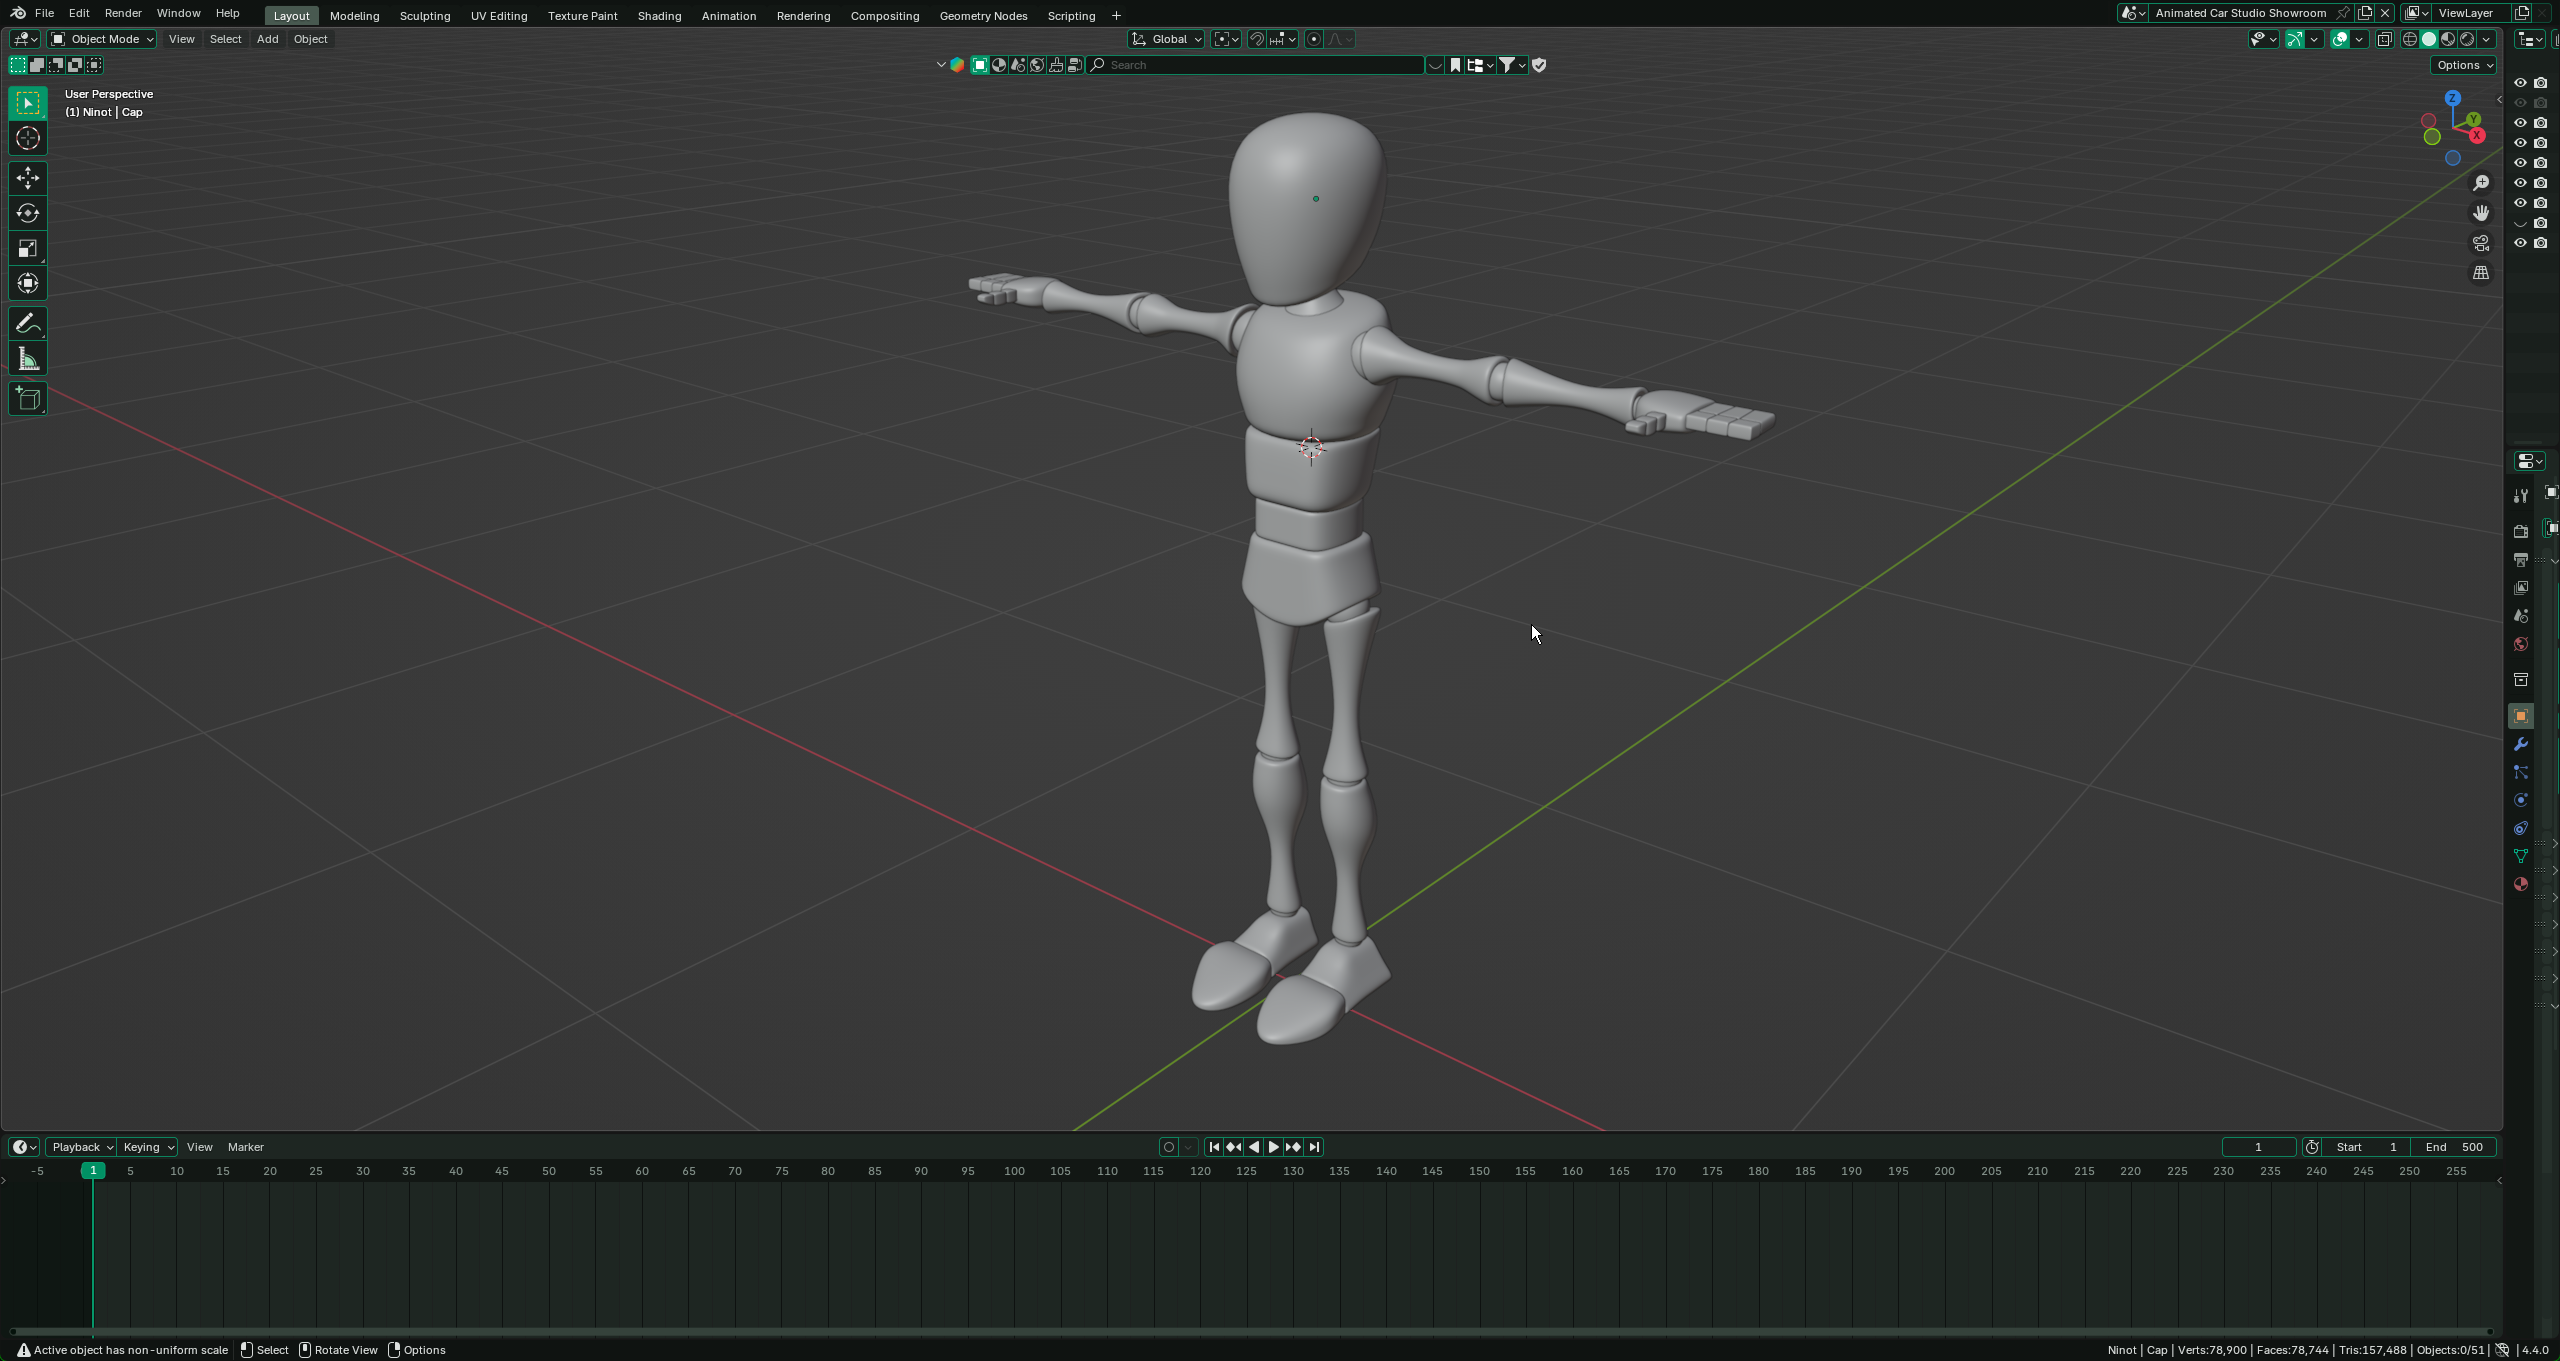
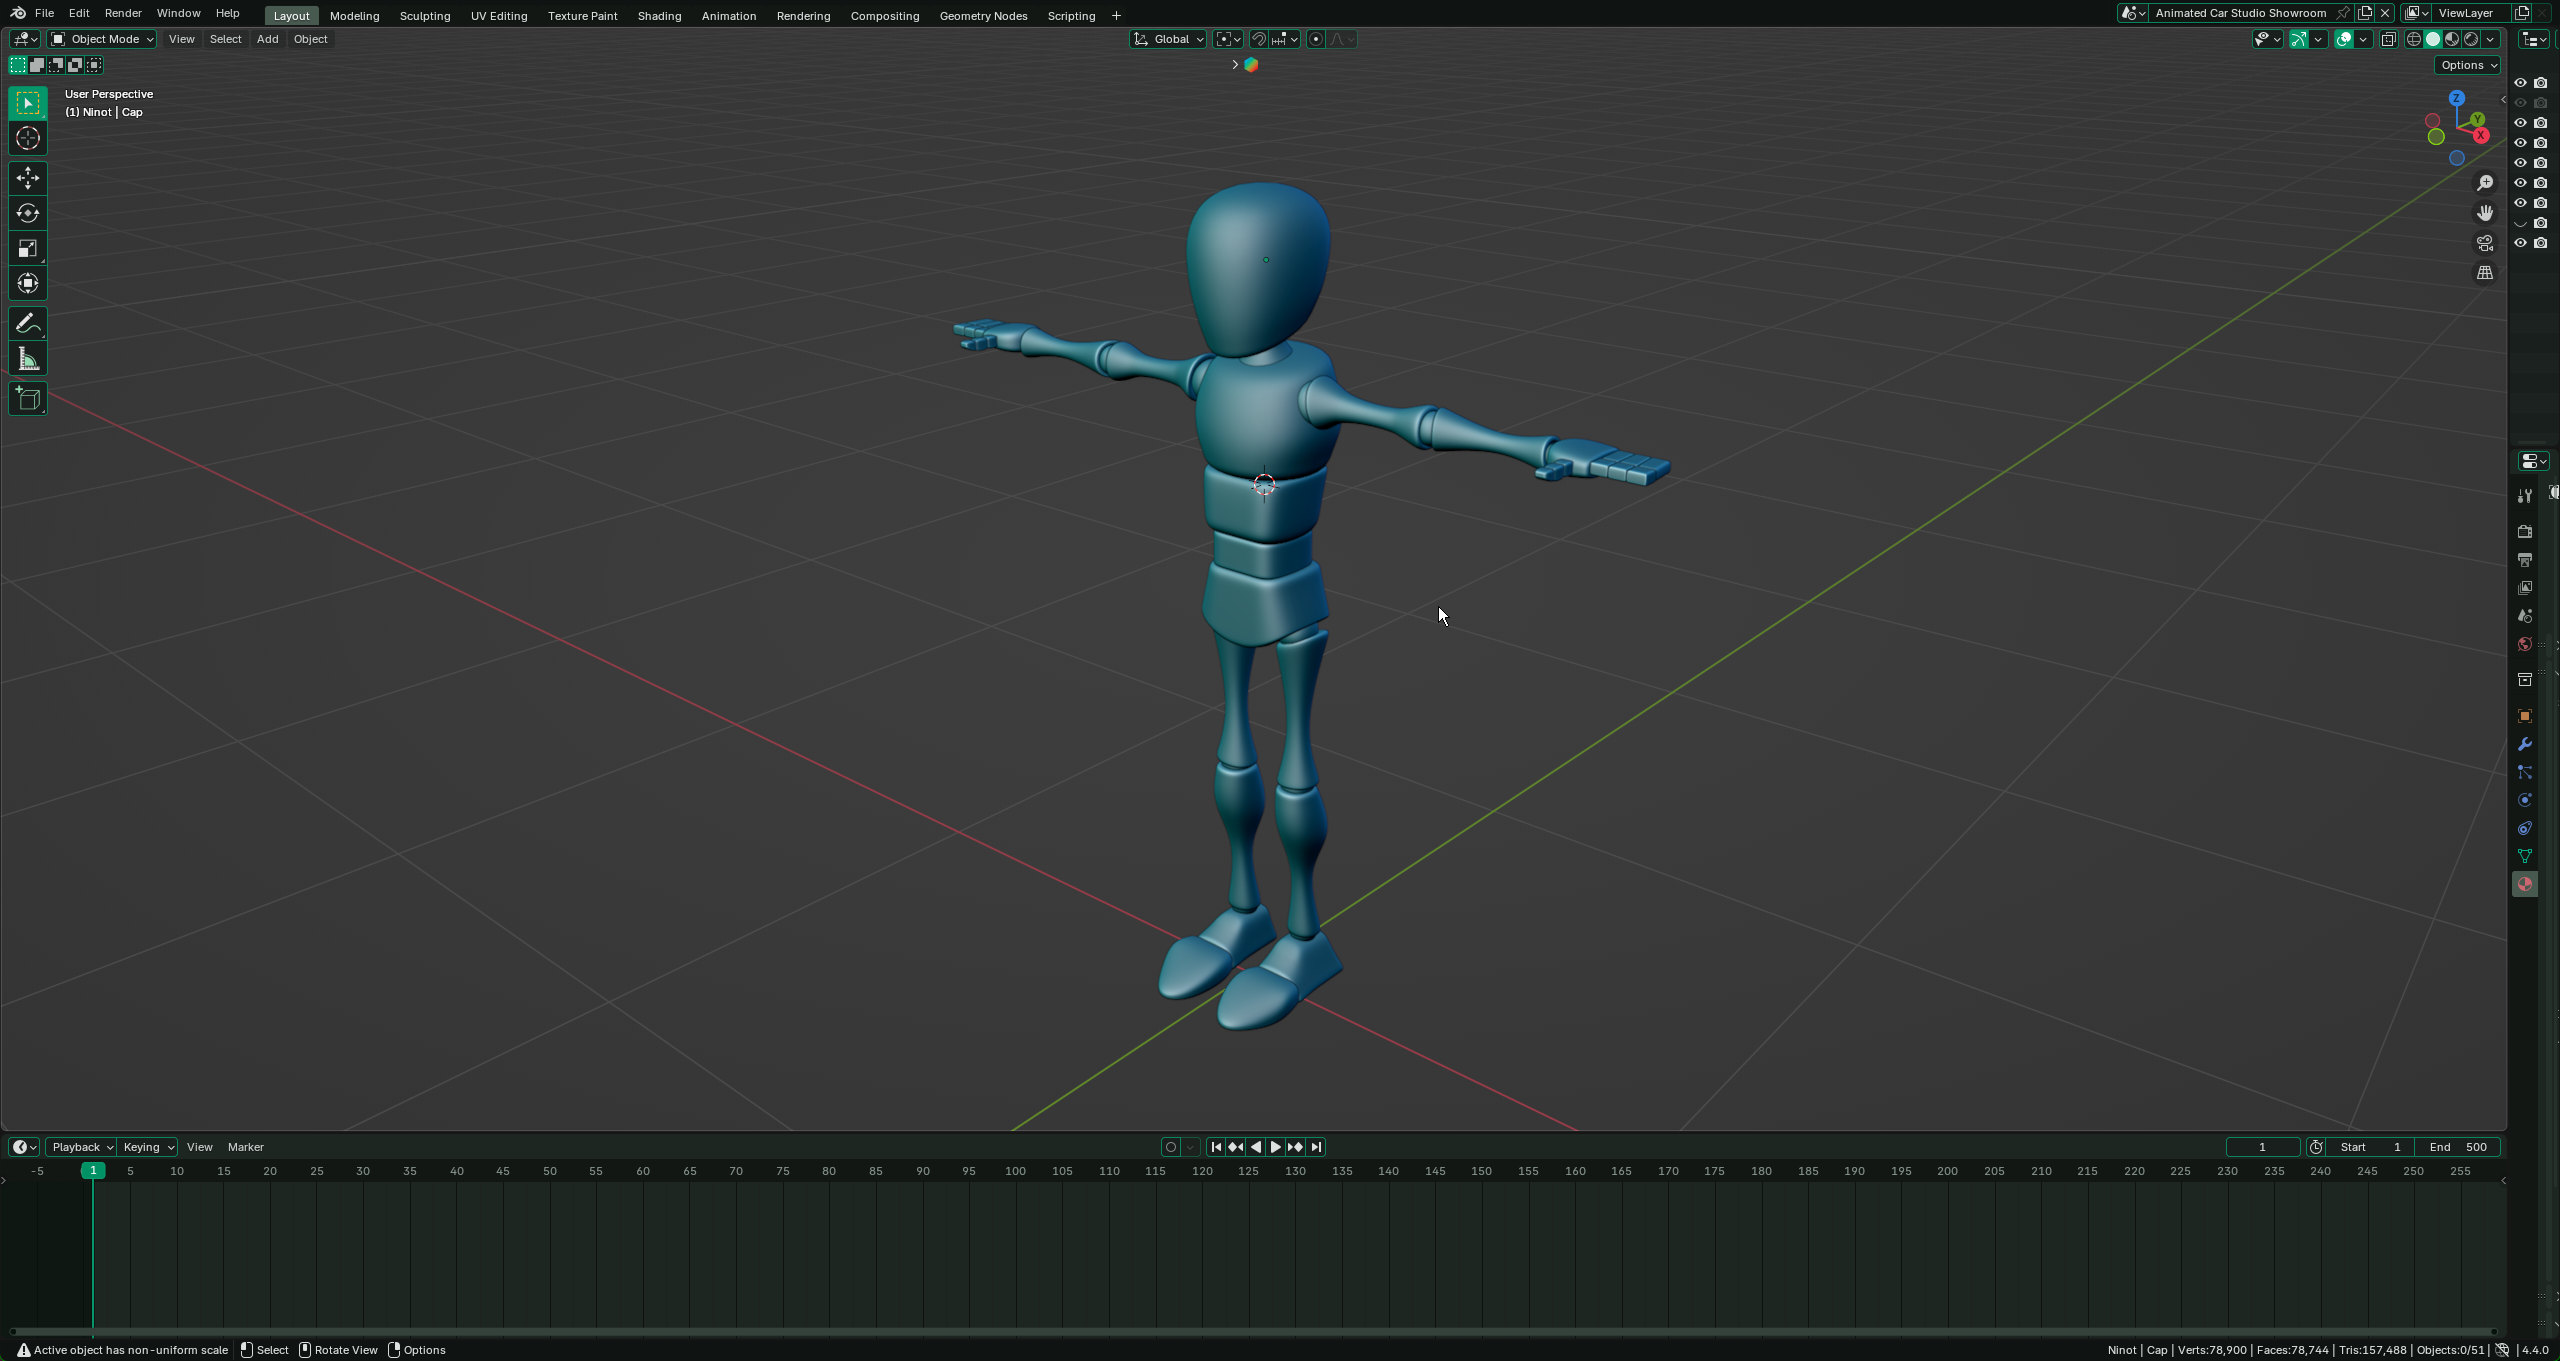
canvis

diff --git a/Styles/Styles.css b/Styles/Styles.css
@@ -6,6 +6,18 @@
 }
 
 /*STYLES INDEX*/
+
+#BodyIndex {
+  background-image: url(../ImagesVideos/Artboard\ 1.png);
+  background-position: center;
+  background-size: cover;
+  /* position: static; */
+  background-repeat: no-repeat;
+    backdrop-filter: blur(5px);
+  width: 100vw;
+  height: 100vh;
+}
+
 body::-webkit-scrollbar {
   display: none;
 }
@@ -36,7 +48,7 @@ header {
   height: 50px;
 }
 
-
+  
 #Menu {
   display: flex;
   position: fixed;
@@ -50,7 +62,7 @@ header {
   padding: 0% 1%;
   margin-top: 1%;
   width: 80%;
-  z-index: 1;
+  z-index: 2;
 }
 
 #MenuItems {
@@ -99,10 +111,7 @@ button {
 }
 
 .MainIndex {
-  background-image: url(../ImagesVideos/Artboard\ 1.png);
-  background-position: center;
-  background-size: cover;
-  background-repeat: no-repeat;
+
   height: 100%;
   display: flex;
   justify-content: center;
@@ -208,18 +217,22 @@ button {
 /*------------------------*/
 
 /* STYLES PROJECTES */
-
 #BodyProjectes {
-  background-image: linear-gradient(to bottom, #5da54f, #4c984e, #3c8c4d, #2d7f4b, #1f7248, #136948, #096148, #045846, #055146, #0c4a44, #144341, #1a3c3d);
+  background-image: url(../ImagesVideos/SmallHexagon_Web_Gradient33.jpg);
+  background-position: center;
+  background-size: cover;
+  background-attachment: fixed;
+  background-repeat: no-repeat;
+  width: 100vw;
+  height: 100vh;
 }
 
-.GeneralContainer {
-  /* position: relative; */
+.GeneralContainer{
+  position: absolute;
   /* background-color: aquamarine; */
-  position: relative;
   width: 100%;
   display: flex;
-  padding-top: 7%;
+  padding-top: 12%;
   flex-direction: column;
   align-items: center;
 }
@@ -255,6 +268,8 @@ button {
   cursor: pointer;
 }
 
+/* Code for background section project gun */
+
 #BGoptionProjectGun {
   position: relative;
   overflow: hidden;
@@ -282,6 +297,9 @@ button {
   transition: 0.5s;
 }
 
+/*------------------*/
+
+/* Code for background section project Dummy */
 
 #BGoptionProjectDummy {
   position: relative;
@@ -304,6 +322,36 @@ button {
 }
 
 #BGoptionProjectDummy:hover::before {
+  cursor: pointer;
+  filter: blur(0px) grayscale(0%);
+  transition: 0.5s;
+}
+
+/*------------------*/
+
+/* Code for background section project House */
+
+#BGoptionProjectHouse {
+  position: relative;
+  overflow: hidden;
+}
+
+#BGoptionProjectHouse::before {
+  content: "";
+  position: absolute;
+  top: 0;
+  left: 0;
+  width: 100%;
+  height: 100%;
+  background-image: url(../ImagesVideos/BG_ProjectHouseOption.jpeg);
+  background-size: cover;
+  background-position: center;
+  filter: blur(3px) grayscale(100%);
+  transition: 0.5s;
+  z-index: 0;
+}
+
+#BGoptionProjectHouse:hover::before {
   cursor: pointer;
   filter: blur(0px) grayscale(0%);
   transition: 0.5s;

diff --git a/projectes.html b/projectes.html
@@ -73,9 +73,9 @@
             </div>
         </div>
         <div class="ContainerFlexOptions">
-            <div class="ContainerOption" id="BGoptionProjectGun">
+            <div class="ContainerOption" id="BGoptionProjectHouse">
                 <div class="TextContainer">
-                    <h1>Gun SCI-FI</h1>
+                    <h1>House</h1>
                 </div>
             </div>
             <div class="ContainerOption" id="BGoptionProjectDummy">

diff --git a/index.html b/index.html
@@ -38,7 +38,7 @@
 
 <!--*CONTINGUT PÀGINA WEB (BODY)*-->
 
-<body>
+<body id="BodyIndex">
     <header>
         <div id="Menu">
             <div class="ContainerXMobile">
